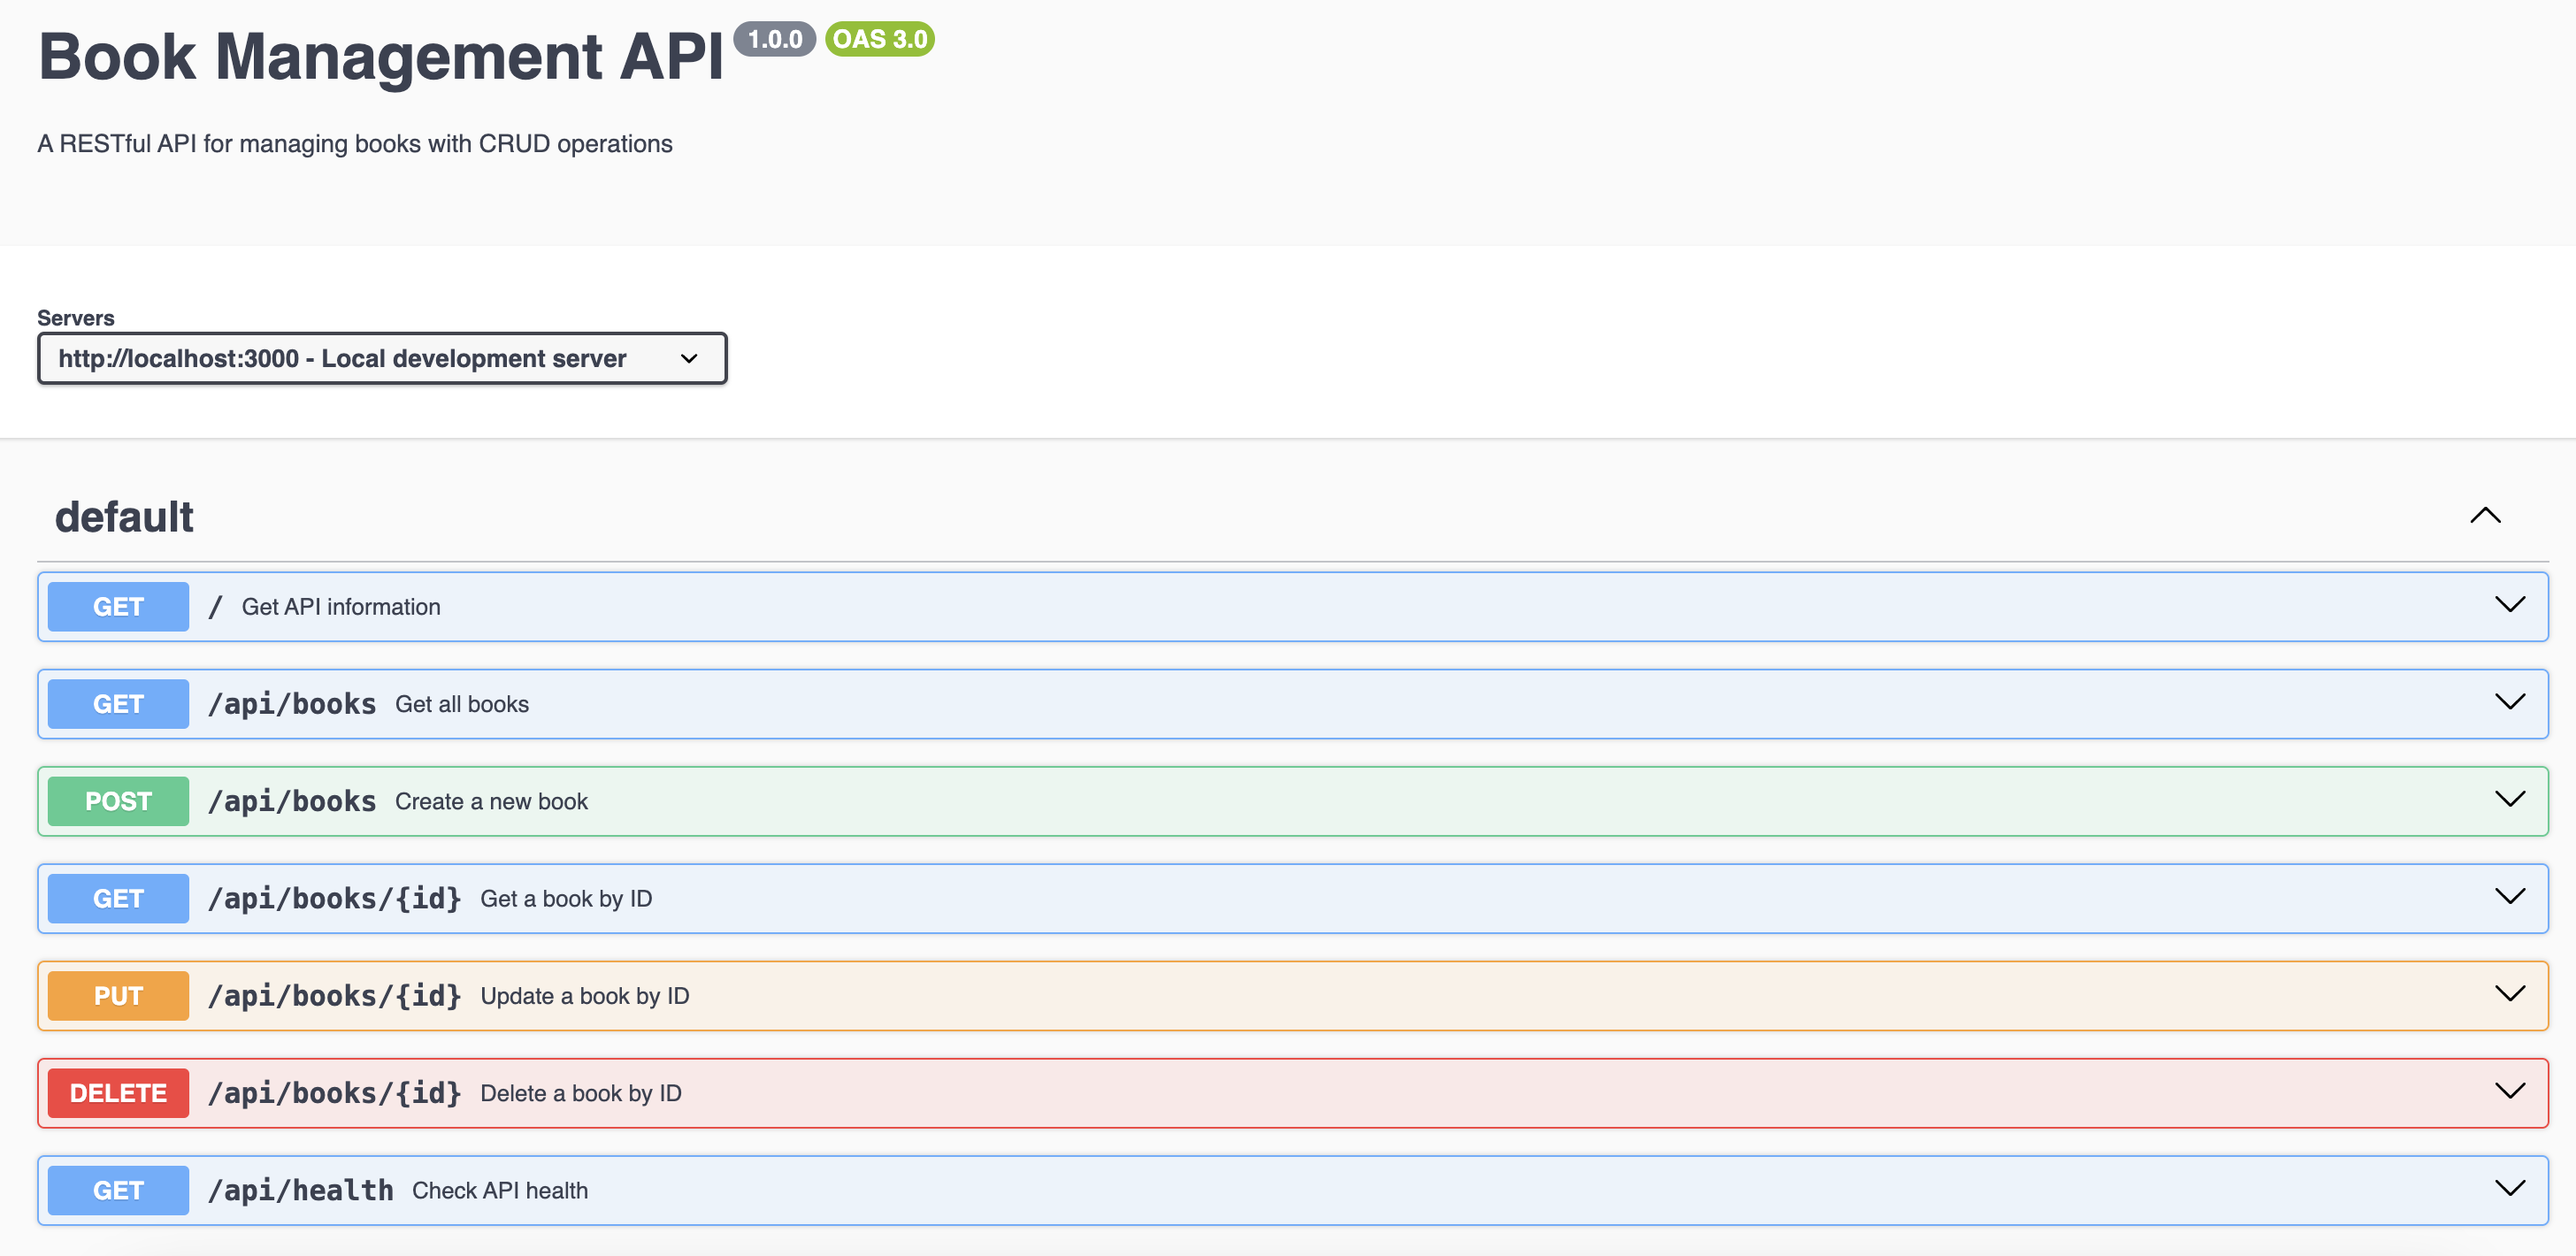
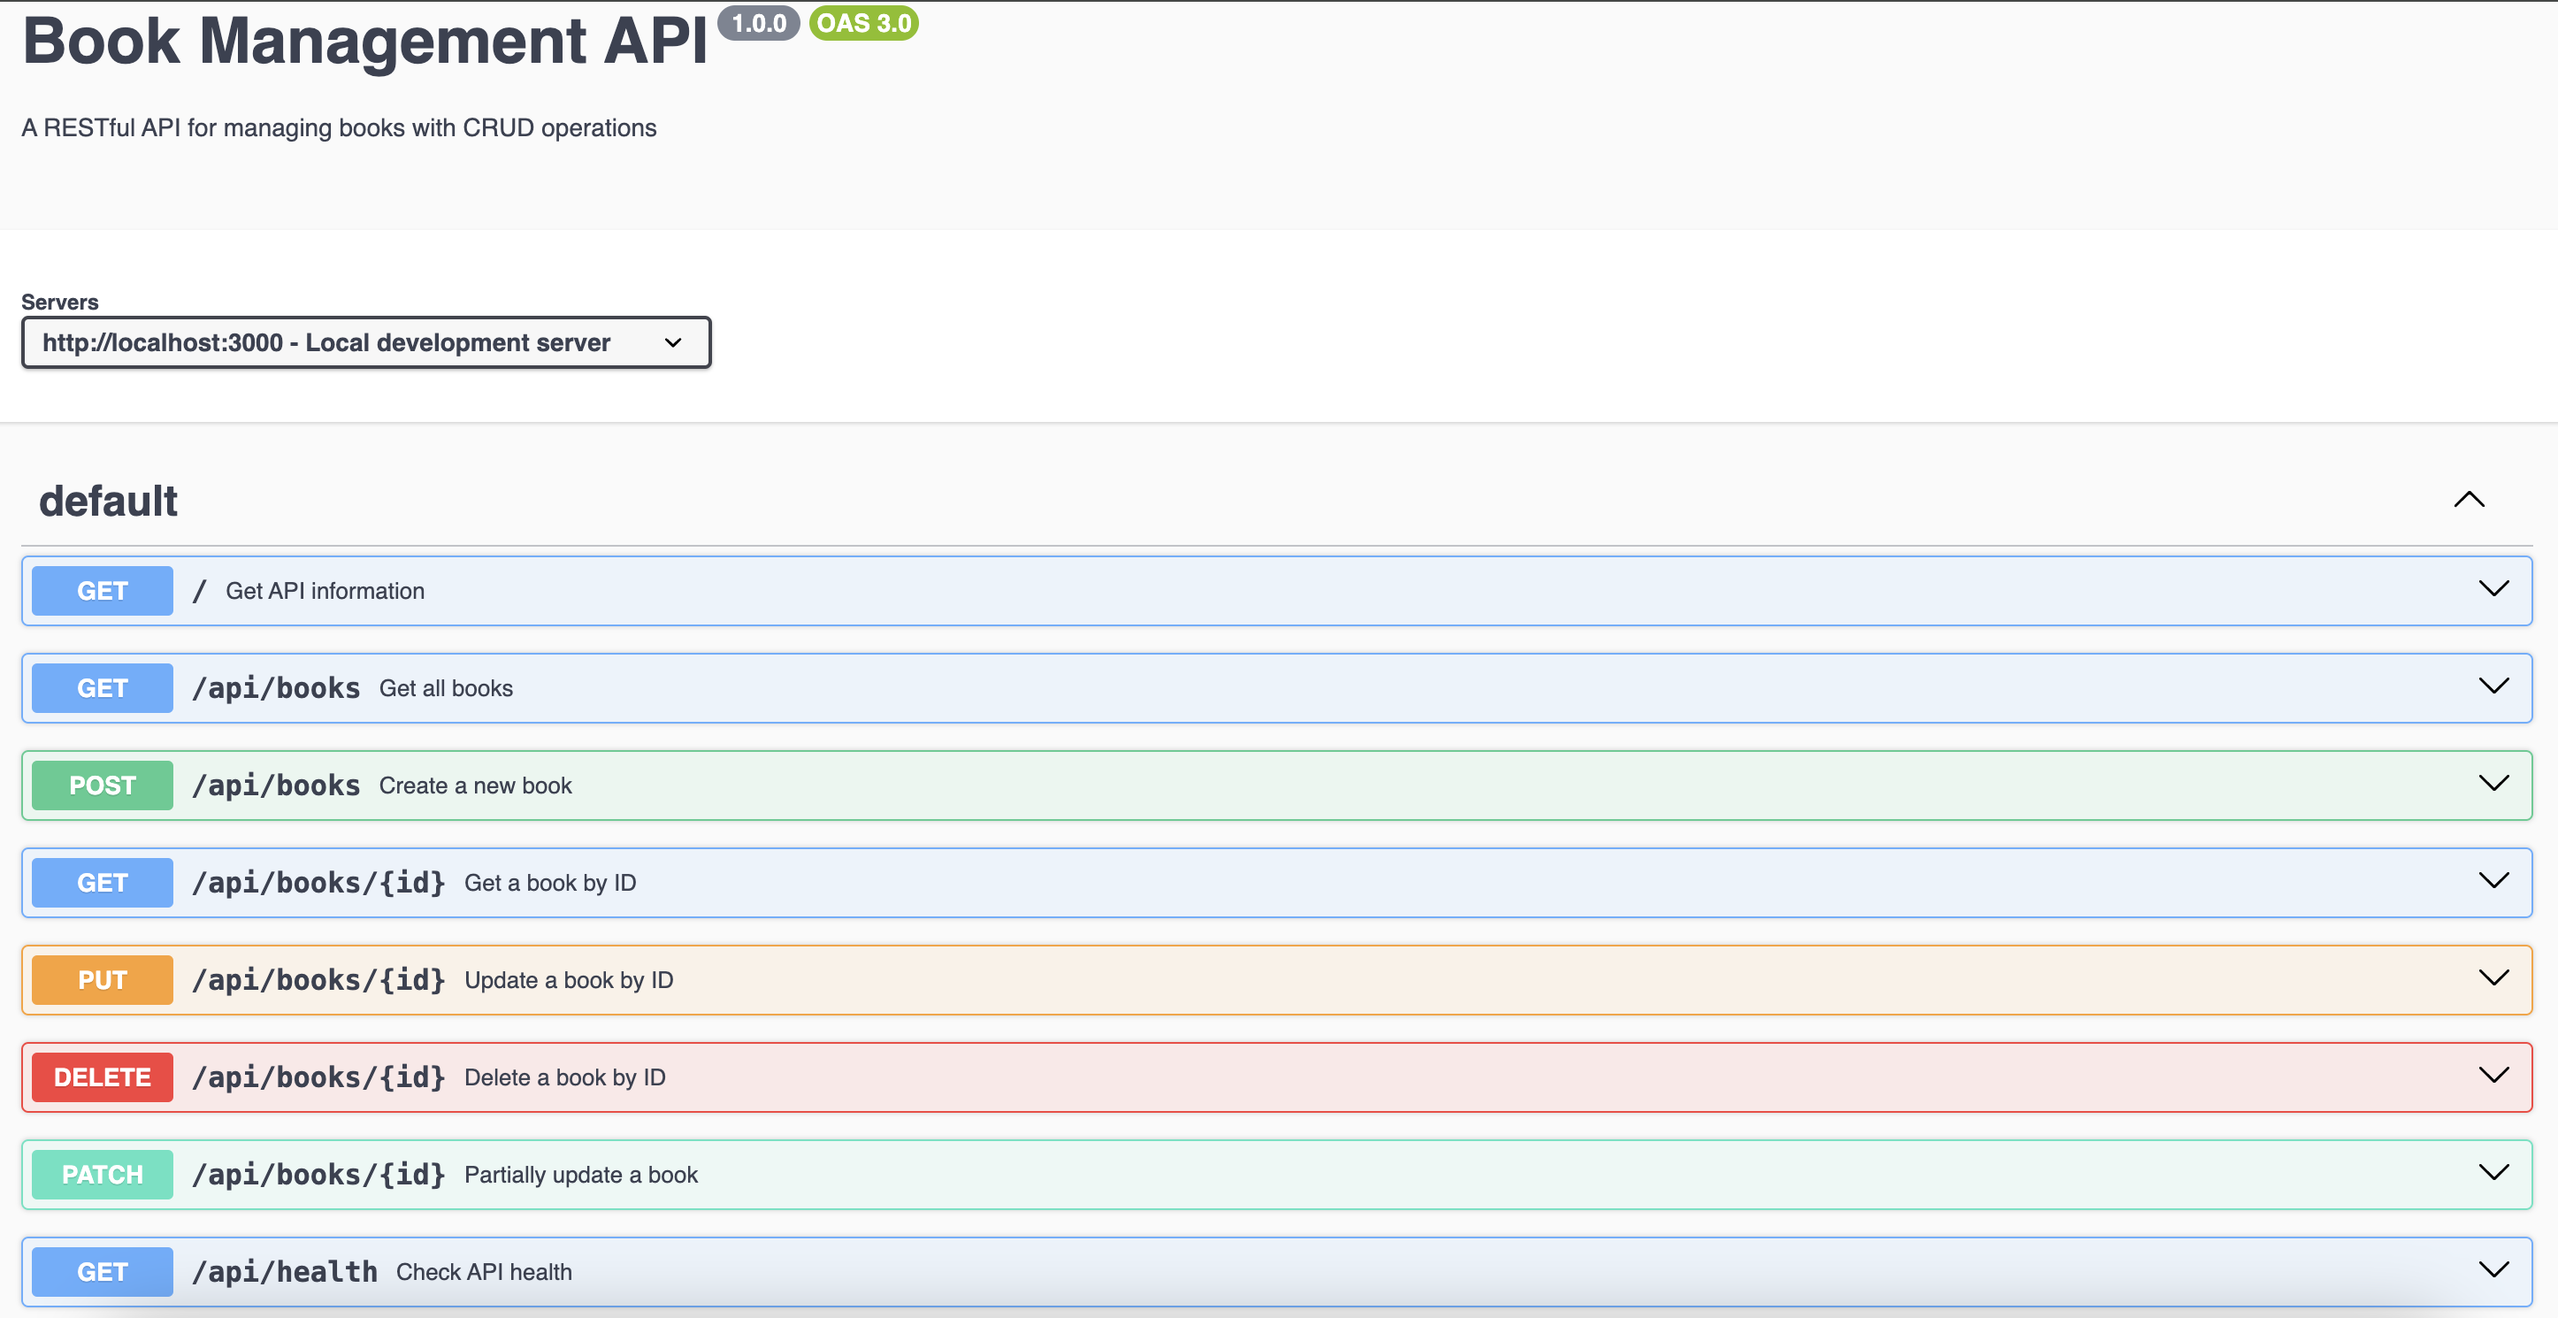
add PATCH endpoint and authortizationheader

diff --git a/src/controllers/bookController.ts b/src/controllers/bookController.ts
@@ -1,5 +1,5 @@
 import { Request, Response } from 'express';
-import { UpdateBookDTO } from '../models/book';
+import { UpdateBookDTO, Book } from '../models/book';
 import BookService from '../services/bookService';
 
 class BookController {
@@ -35,6 +35,24 @@ class BookController {
         const updateData: UpdateBookDTO = req.body;
         const { title, author, publishedDate } = updateData;
         const updatedBook = this.bookService.updateBook(id, title, author, publishedDate, updateData);
+        if (updatedBook) {
+            res.status(200).json(updatedBook);
+        } else {
+            res.status(404).json({ message: 'Book not found' });
+        }
+    };
+
+    public patchBook = async (req: Request, res: Response): Promise<void> => {
+        const id = parseInt(req.params.id);
+        const updates: Partial<Book> = req.body;
+
+        // Validate that at least one field is provided
+        if (Object.keys(updates).length === 0) {
+            res.status(400).json({ message: 'At least one field must be provided for update' });
+            return;
+        }
+
+        const updatedBook = this.bookService.patchBook(id, updates);
         if (updatedBook) {
             res.status(200).json(updatedBook);
         } else {

diff --git a/src/services/bookService.ts b/src/services/bookService.ts
@@ -33,6 +33,23 @@ class BookService {
         return this.books[index];
     }
 
+    public patchBook(id: number, updates: Partial<Book>): Book | null {
+        const index = this.books.findIndex(book => book.id === id);
+        if (index === -1) return null;
+
+        // Only update the fields that are provided
+        const updatedBook = {
+            ...this.books[index],  // Keep existing book data
+            ...updates            // Override only the provided fields
+        };
+
+        // Ensure id remains unchanged
+        updatedBook.id = this.books[index].id;
+        
+        this.books[index] = updatedBook;
+        return updatedBook;
+    }
+
     public getBookById(id: number): Book | null {
         console.log('Getting book with id:', id);
         const book = this.books.find(b => b.id === id);

diff --git a/src/middleware/auth.ts b/src/middleware/auth.ts
@@ -1,0 +1,28 @@
+// src/middleware/auth.ts
+import { Request, Response, NextFunction } from 'express';
+import { logger } from '../utils/logger';
+
+export interface AuthenticatedRequest extends Request {
+    auth?: {
+        isAuthenticated: boolean;
+    }
+}
+
+const API_KEY = process.env.API_KEY ?? 'default-secure-api-key-2024';
+
+export const authMiddleware = (
+    req: Request,
+    res: Response,
+    next: NextFunction
+): void => {
+    const apiKey = req.header('x-api-key');
+
+    if (!apiKey || apiKey !== API_KEY) {
+        logger.error('Invalid or missing API key');
+        res.status(401).json({ error: 'Unauthorized - Invalid API key' });
+        return;
+    }
+
+    (req as AuthenticatedRequest).auth = { isAuthenticated: true };
+    next();
+};

diff --git a/src/app.ts b/src/app.ts
@@ -5,6 +5,11 @@ import path from 'path';
 import { setBookRoutes } from './routes/bookRoutes';
 import { errorHandler } from './middleware/errorHandler';
 import { loggerMiddleware } from './utils/logger';
+import { authMiddleware } from './middleware/auth';
+import dotenv from 'dotenv';
+
+// Load environment variables
+dotenv.config();
 
 const app = express();
 const PORT = process.env.PORT ?? 3000;
@@ -14,6 +19,9 @@ const swaggerDocument = YAML.load(path.join(__dirname, '../swagger.yaml'));
 
 app.use(express.json());
 app.use(loggerMiddleware);
+
+// Apply auth middleware to all routes except documentation
+app.use('/api', authMiddleware);
 
 // Serve Swagger documentation
 app.use('/api-docs', swaggerUi.serve, swaggerUi.setup(swaggerDocument));

diff --git a/src/tests/unit/bookService.test.ts b/src/tests/unit/bookService.test.ts
@@ -42,4 +42,14 @@ describe('BookService', () => {
         const foundBook = await bookService.getBookById(createdBook.id);
         expect(foundBook).toBeNull();
     });
+
+    it('should partially update a book', () => {
+        const original = bookService.createBook('Original Title', 'Original Author', '2023-01-01');
+        const updated = bookService.patchBook(original.id, { title: 'New Title' });
+        
+        expect(updated).not.toBeNull();
+        expect(updated!.title).toBe('New Title');
+        expect(updated!.author).toBe('Original Author');    // unchanged
+        expect(updated!.publishedDate).toBe('2023-01-01'); // unchanged
+    });
 });

diff --git a/README.md b/README.md
@@ -1,23 +1,43 @@
 # Book Management API
 
-This project is a Book Management API that allows users to manage a collection of books. It provides endpoints to create, read, update, and delete books.
+A simple REST API for managing books.
 
-## Installation
-
-To install and run the API, follow these steps:
+## Getting Started
 
 1. **Clone the repository:**
     ```bash
     git clone https://github.com/Aviv-public/aviv-qa-api-technical-test.git
+
     cd aviv-qa-api-technical-test
     ```
 
-2. **Install dependencies:**
+2. **Setup environment:**
     ```bash
-    npm install
+    cp .env.example .env
+    ```
+    Configure your [.env](http://_vscodecontentref_/0) file with appropriate values:
+    ```
+    PORT=3000
+    API_KEY=your-secure-api-key-here
+    NODE_ENV=development
     ```
 
-The API will be running at `http://localhost:3000`.
+3. **Install dependencies and start:**
+    ```bash
+    npm install
+    npm run start
+    ```
+
+The API will be running at `http://localhost:3000`
+The API documentation will be available at `http://localhost:3000/api-docs`
+
+## Authentication
+
+All API endpoints (except documentation) require authentication using an API key header:
+
+```bash
+x-api-key: default-secure-api-key-2024
+```
 
 ## API Documentation
 
@@ -31,15 +51,19 @@ To explore the API:
 2. Open your browser and navigate to `http://localhost:3000/api-docs`
 3. Use the Swagger UI to check the endpoints and view request/response schemas
 
-## API Endpoints
+## Available API Endpoints
 
-- `GET /books` - Retrieve a list of all books
-- `GET /books/:id` - Retrieve a single book by ID
-- `POST /books` - Create a new book
-- `PUT /books/:id` - Update a book by ID
-- `DELETE /books/:id` - Delete a book by ID
-- `GET /health` - Check the health of the API
+The API provides the following endpoints:
 
+- GET / - Welcome page
+- GET /api/books - List all books
+- POST /api/books - Create a new book
+- GET /api/books/:id - Get a book by ID
+- PUT /api/books/:id - Update a book
+- FETCH /api/books/:id - Fetch a book
+- DELETE /api/books/:id - Delete a book
+
+Note: All /api/* endpoints require authentication via x-api-key header. ```
 
 ## Running Tests
 
@@ -84,6 +108,8 @@ QA Engineers, responsible for ensuring the quality and functionality of the API,
      - `supertest` - HTTP assertions
      - `@faker-js/faker` - Test data generation
      - `joi` - Schema validation
+
+## Contributing
 
 1. **Fork the repository:**
     Go to the repository on GitHub and click the "Fork" button to create a copy of the repository in your own GitHub account.
